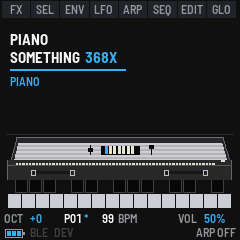
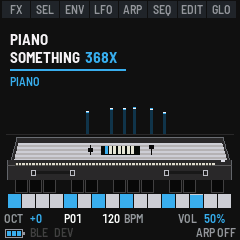
HOME GIFs: the four HOMEs animated, a knob's dive each (manual, site)
tools/home_gifs.py films them in the host simulator: FREQUENCY on the bass's, SEQ on the drums', chords and ORGAN
MODE on the piano's, REPEAT RATE on the Space Echo's, each back out to HOME at the loop. The piano's still has a chord
ringing (screens.txt).

diff --git a/tools/home_gifs.py b/tools/home_gifs.py
@@ -1,0 +1,82 @@
+#!/usr/bin/env python3
+"""The four HOME pages as animated GIFs for the manual and the site (bs2/docs/img/screen-*-home.gif): a few seconds on
+HOME, then a knob turned (or a button tapped) and the camera's dive in, held, and back out to HOME, where the loop
+starts again. Each from the host simulator, a shot every FRAME_MS. From the repository's root, after
+tools/build.py bs2 --host:
+    python3 bs2/tools/home_gifs.py [OUT_DIR]        (default bs2/docs/img; needs Pillow)
+"""
+import os
+import subprocess
+import sys
+import tempfile
+
+from PIL import Image
+
+ROOT = os.path.dirname(os.path.dirname(os.path.dirname(os.path.abspath(__file__))))
+HOST = os.path.join(ROOT, "bs2/build/host/bass-something-2_host")
+FRAME_MS = 50
+
+CHORD1 = [(0, 127), (7, 127), (11, 120), (14, 120), (19, 127), (23, 115)]   # F3 C4 E4 G4 C5 E5
+CHORD2 = [(2, 120), (9, 124), (12, 118), (16, 122), (21, 120)]               # G3 D4 F4 A4 D5
+CHORD3 = [(4, 122), (11, 120), (14, 124), (18, 118), (23, 122)]              # A3 E4 G4 B4 E5
+
+
+def chord(keys, at, held):
+    """a chord struck at `at` ms, let go `held` ms later"""
+    return [(at, [f"key {k} down {v}" for k, v in keys]), (at + held, [f"key {k} up" for k, _ in keys])]
+
+
+def turns(enc, at, n, step, every=80):
+    """n detents of `step` on enc, from `at` ms, `every` ms apart"""
+    return [(at + i * every, [f"spin {enc} {step}"]) for i in range(n)]
+
+
+# each: (file, the HOME taps from the bass's to its mode, what's done before the first frame (the bass's knob turned
+# and back: the patch shown edited, P01. as at the loop's end), the length in ms, the events: (ms, [commands]))
+GIFS = [
+    ("screen-bass-home.gif", 0, ["spin K4 -1", "spin K4 1"], 7000,
+     turns("K4", 2500, 10, -3) + turns("K4", 3500, 10, 3)),             # FREQUENCY down and back
+    ("screen-drum-home.gif", 1, [], 9000,
+     [(2500, ["tap SEQ"]), (4300, ["tap HOME"])]),                      # SEQ's patterns, and HOME again
+    ("screen-piano-home.gif", 2, [], 8000,
+     chord(CHORD1, 300, 900) + chord(CHORD2, 1400, 900) + chord(CHORD3, 2500, 1600)
+     + [(3300, ["spin K2 1"]), (4200, ["spin K2 -1"])]
+     + chord(CHORD2, 5900, 700) + chord(CHORD1, 6700, 900)),            # chords, ORGAN MODE on and off, chords
+    ("screen-echo-home.gif", 3, [], 7000,
+     turns("K1", 2500, 10, 3) + turns("K1", 3500, 10, -3)),             # REPEAT RATE up and back
+]
+
+
+def make(name, taps, prep, length, events, out_dir):
+    with tempfile.TemporaryDirectory() as tmp:
+        lines = ["bank_init", "wait 900"]
+        for _ in range(taps):
+            lines += ["tap HOME", "wait 3000"]
+        lines += prep + ["wait 3000"]
+        due = sorted(events, key=lambda e: e[0])
+        frames = length // FRAME_MS
+        for i in range(frames):
+            t = i * FRAME_MS
+            while due and due[0][0] <= t:
+                lines += due.pop(0)[1]
+            lines += [f"shot f{i:04d}.png", f"wait {FRAME_MS}"]
+        script = os.path.join(tmp, "gif.txt")
+        with open(script, "w") as f:
+            f.write("\n".join(lines) + "\n")
+        subprocess.run([HOST, script, tmp], check=True, stdout=subprocess.DEVNULL)
+        ims = [Image.open(os.path.join(tmp, f"f{i:04d}.png")).convert("RGB") for i in range(frames)]
+        pal = [im.quantize(colors=128, method=Image.Quantize.MEDIANCUT, dither=Image.Dither.NONE) for im in ims]
+        path = os.path.join(out_dir, name)
+        pal[0].save(path, save_all=True, append_images=pal[1:], duration=FRAME_MS, loop=0, optimize=True,
+                    disposal=1)
+        print(f"{path}: {frames} frames, {os.path.getsize(path) // 1024} KB")
+
+
+def main():
+    out_dir = sys.argv[1] if len(sys.argv) > 1 else os.path.join(ROOT, "bs2/docs/img")
+    for g in GIFS:
+        make(*g, out_dir)
+
+
+if __name__ == "__main__":
+    main()

diff --git a/site/landing.md b/site/landing.md
@@ -13,10 +13,10 @@ echo and spring reverb inspired by the Roland RE-201, and all three instruments 
 It's also a companion for Cyma Forma's RND Synth (firmware 1.4): 32 seed slots with their locks, and a mixer for its
 four tracks.
 
-![Bass Something 2's HOME page with a note playing: the BASS SOMETHING 2 name, the red P01 display, the scope drawing the wave, and the whole Bass Station II panel above the keys](manual/img/screen-home.png "Bass Something 2 on the FM-1's screen")
-![Drum Something 400's HOME page: the panel, with two red displays above the keypad and the drums' buttons along the bottom](manual/img/screen-drum-home.png "Drum Something 400 on the FM-1's screen")
-![Piano Something 368X's HOME page: its name, the tone toggle that's on, and the RMI Electra-piano's front panel above the keys](manual/img/screen-piano-home.png "Piano Something 368X on the FM-1's screen")
-![Space Something 201's HOME page: its name and mode above the whole RE-201 front panel, the keys under it](manual/img/screen-echo-home.png "Space Something 201 on the FM-1's screen")
+![Bass Something 2's HOME page, animated: the name, the red P01 display and the whole Bass Station II panel; then FREQUENCY turned, the camera diving into the filter's knob and back out to HOME](manual/img/screen-bass-home.gif "Bass Something 2 on the FM-1's screen")
+![Drum Something 400's HOME page, animated: the panel with its two red displays; then SEQ tapped, the patterns' page, and HOME again](manual/img/screen-drum-home.gif "Drum Something 400 on the FM-1's screen")
+![Piano Something 368X's HOME page, animated: chords played, their notes ringing as bars over the RMI Electra-piano's front panel; then ORGAN MODE turned on and off, the camera diving into the tone tablets and back out](manual/img/screen-piano-home.gif "Piano Something 368X on the FM-1's screen")
+![Space Something 201's HOME page, animated: its name and mode above the whole RE-201 front panel; then REPEAT RATE turned, the camera diving into the knob and back out](manual/img/screen-echo-home.gif "Space Something 201 on the FM-1's screen")
 
 Version {{VERSION}}. Installing is at your own risk; the installer can put M-VAVE's own firmware back.
 
